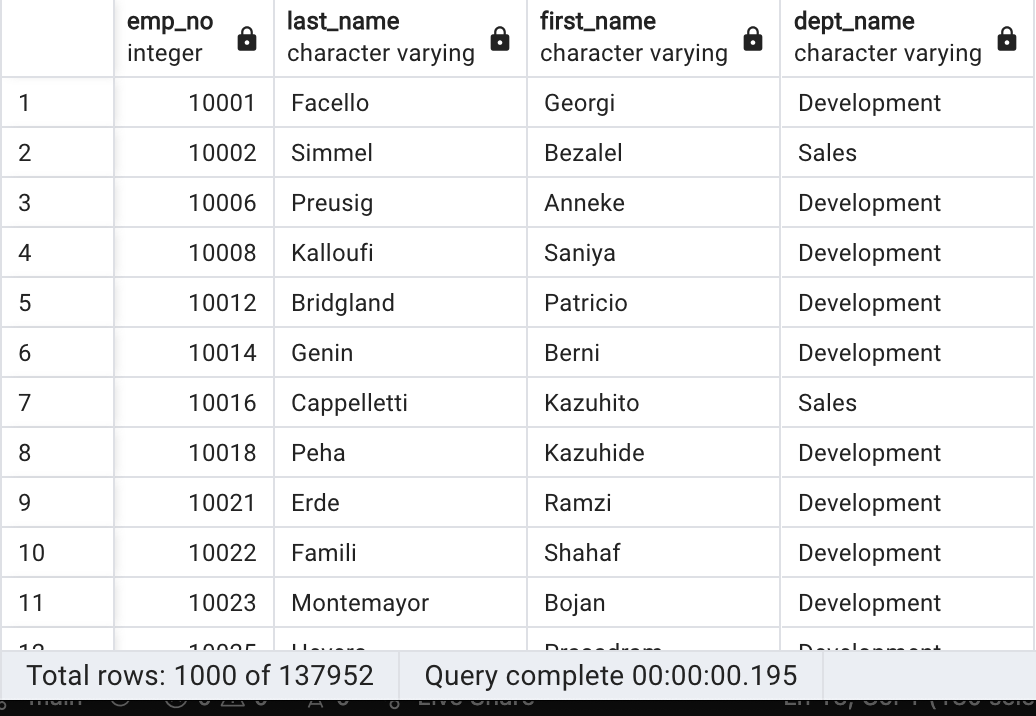
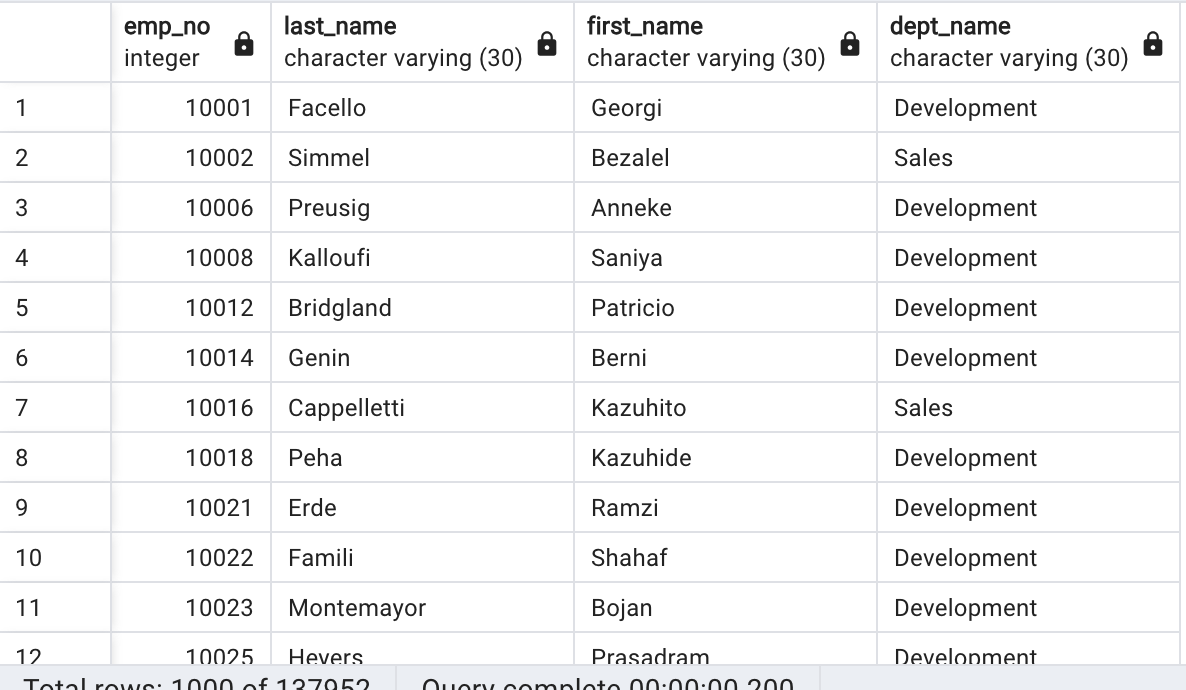
Included QuickDBD image and updated tables to include character limits

Changed region(s): [[0.0, 0.0, 1.0, 1.0], [0.0, 0.0, 0.0309, 0.0304]]

diff --git a/README.md b/README.md
@@ -1,1 +1,30 @@
 # sql-challenge
+
+<font size='5'>Data Modeling
+![QDB Image](EmployeeSQL/images/qdbd-sql-challenge.png)
+
+<font size='5'>Data Analysis
+
+<font size='3'> Q1. List the employee number, last name, first name, sex, and salary of each employee.
+![q1 image](EmployeeSQL/images/q1.png)
+
+Q2. List the first name, last name, and hire date for the employees who were hired in 1986.
+![q2 image](EmployeeSQL/images/q2.png)
+
+Q3. List the manager of each department along with their department number, department name, employee number, last name, and first name.
+![q3 image](EmployeeSQL/images/q3.png)
+
+Q4. List the department number for each employee along with that employee’s employee number, last name, first name, and department name.
+![q4 image](EmployeeSQL/images/q4.png)
+
+Q5. List first name, last name, and sex of each employee whose first name is Hercules and whose last name begins with the letter B.
+![q5 image](EmployeeSQL/images/q5.png)
+
+Q6. List each employee in the Sales department, including their employee number, last name, and first name.
+![q6 image](EmployeeSQL/images/q6.png)
+
+Q7. List each employee in the Sales and Development departments, including their employee number, last name, first name, and department name.
+![q7 image](EmployeeSQL/images/q7.png)
+
+Q8. List the frequency counts, in descending order, of all the employee last names (that is, how many employees share each last name).
+![q8 image](EmployeeSQL/images/q8.png)
